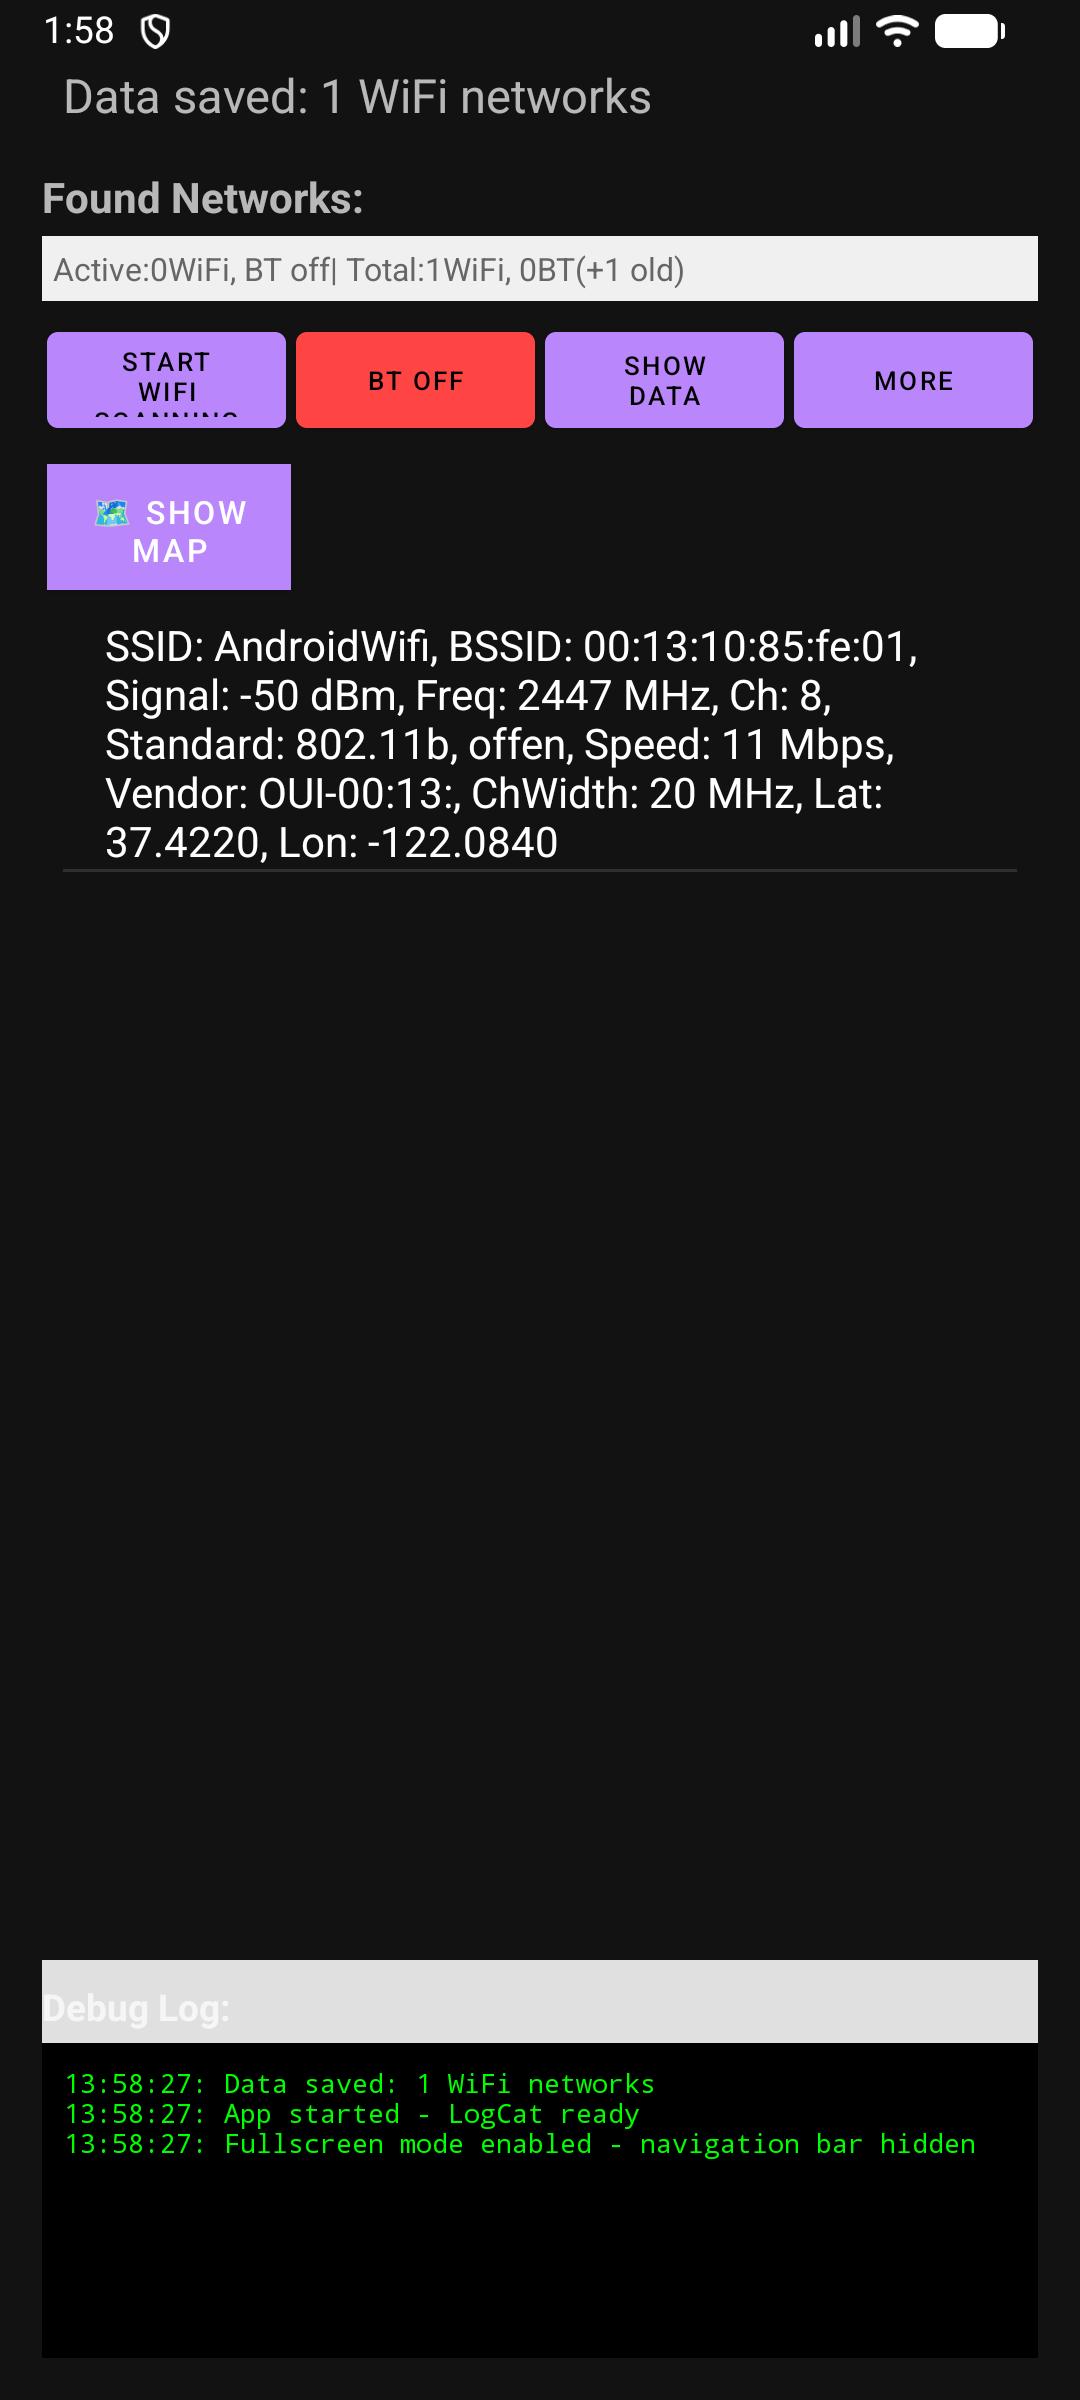
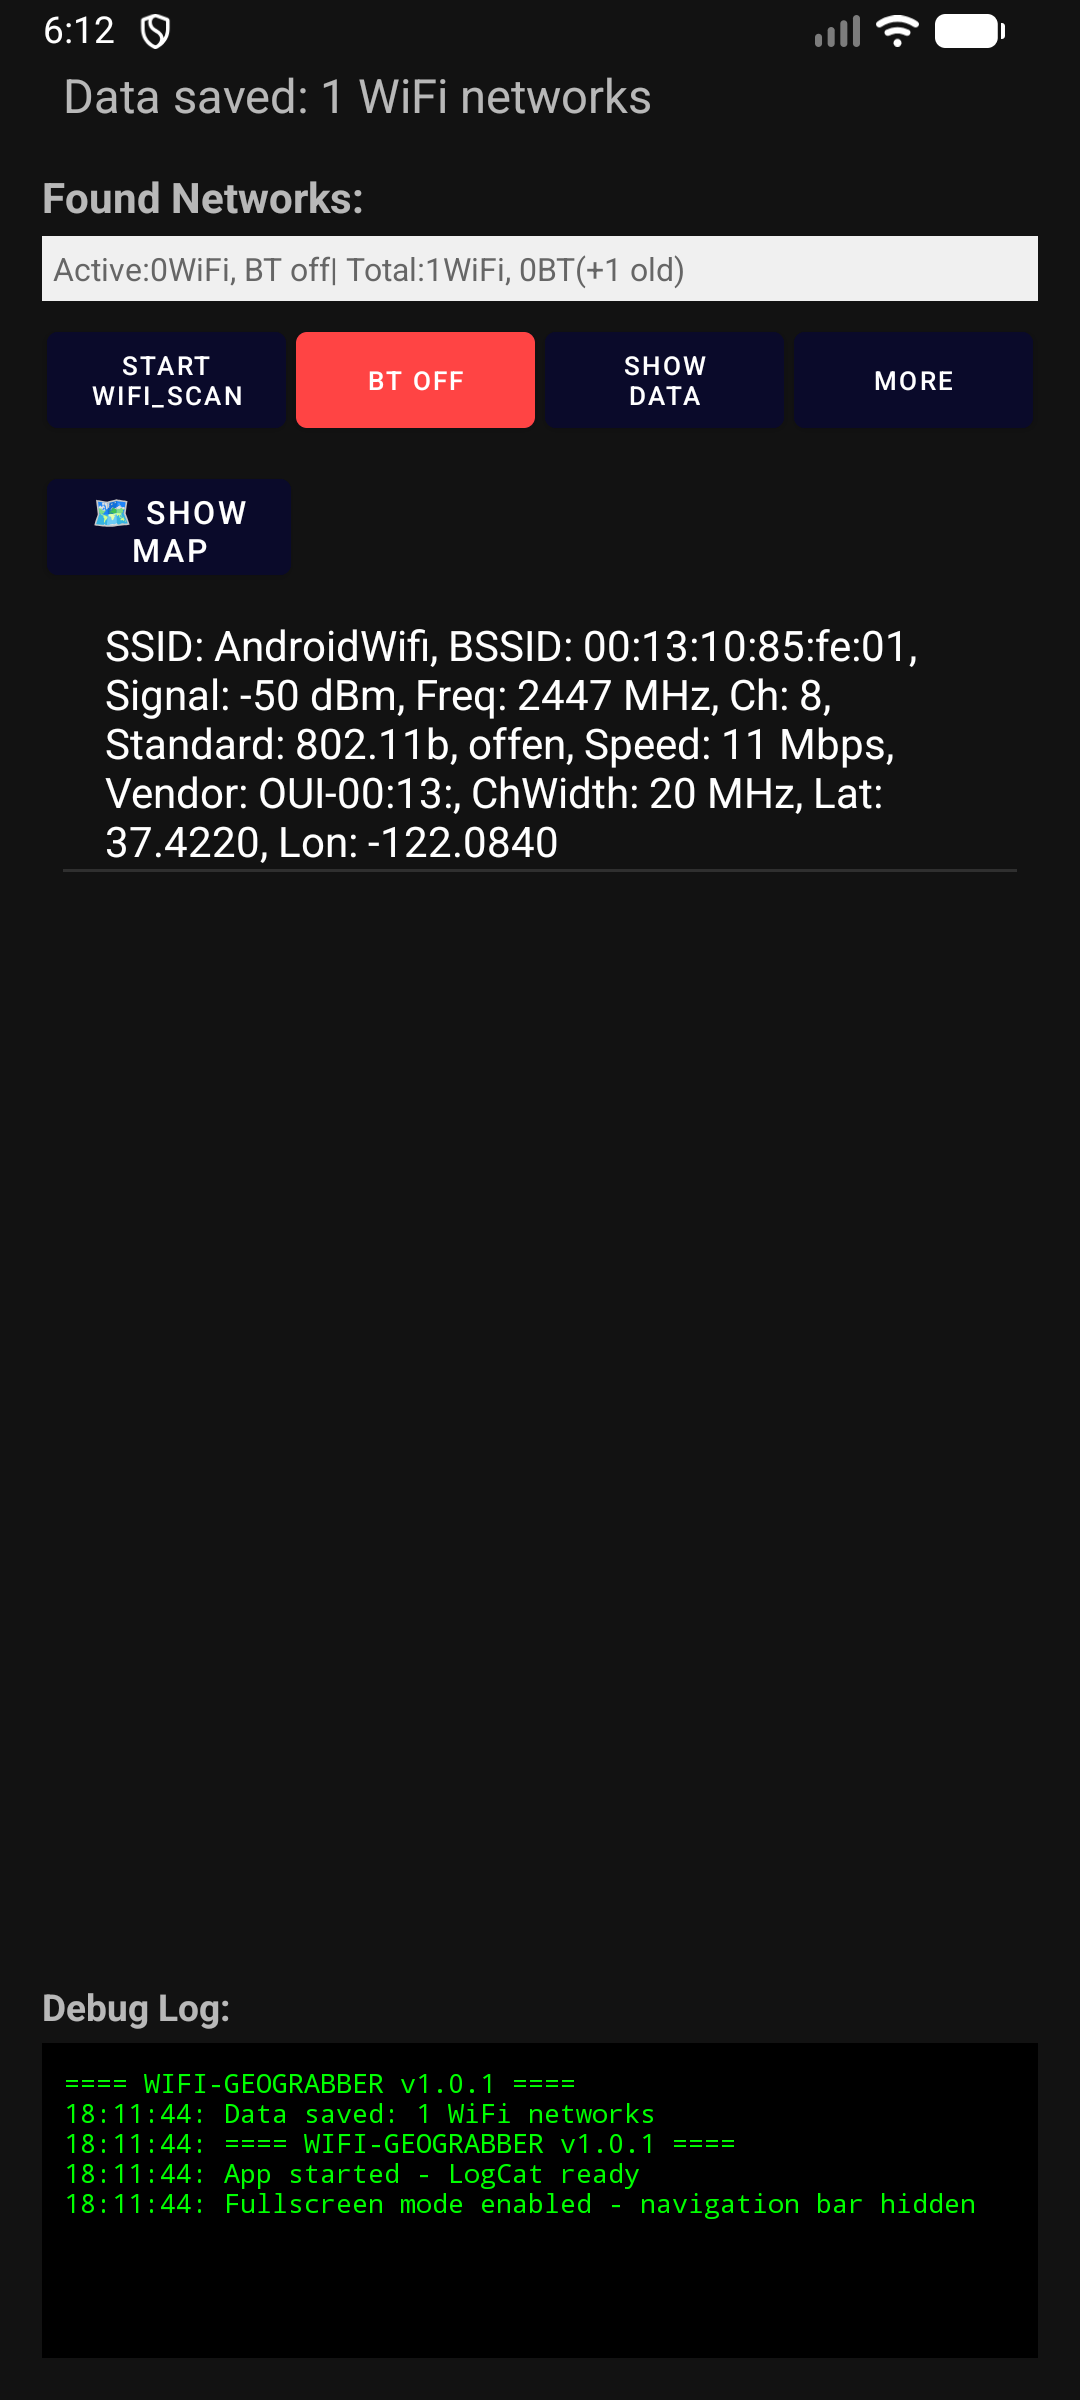
small changes

diff --git a/WIFIGEOGRABBER/app/src/main/java/com/example/wifi_geograbber/MapActivity.java b/WIFIGEOGRABBER/app/src/main/java/com/example/wifi_geograbber/MapActivity.java
@@ -446,7 +446,7 @@ public class MapActivity extends AppCompatActivity {
             "            position: absolute;\n" +
             "            top: 10px;\n" +
             "            right: 10px;\n" +
-            "            background: " + (isExternalDb ? "rgba(255, 140, 0, 0.9)" : "rgba(0, 100, 200, 0.9)") + ";\n" +
+                "        background: " + (isExternalDb ? "rgba(255, 140, 0, 0.9)" : "#0A0A2A") + ";\n" +
             "            color: white;\n" +
             "            padding: 6px 10px;\n" +
             "            border-radius: 5px;\n" +

diff --git a/WIFIGEOGRABBER/app/src/main/java/com/example/wifi_geograbber/MainActivity.java b/WIFIGEOGRABBER/app/src/main/java/com/example/wifi_geograbber/MainActivity.java
@@ -1703,9 +1703,9 @@ public class MainActivity extends AppCompatActivity {
         private void updateToggleScanButton() {
             if (toggleScanButton != null) {
                 if (isScanning) {
-                    toggleScanButton.setText("Stop WiFi scanning");
+                    toggleScanButton.setText("Stop WiFi_scan");
                 } else {
-                    toggleScanButton.setText("Start WiFi scanning");
+                    toggleScanButton.setText("Start WiFi_scan");
                 }
             }
         }
